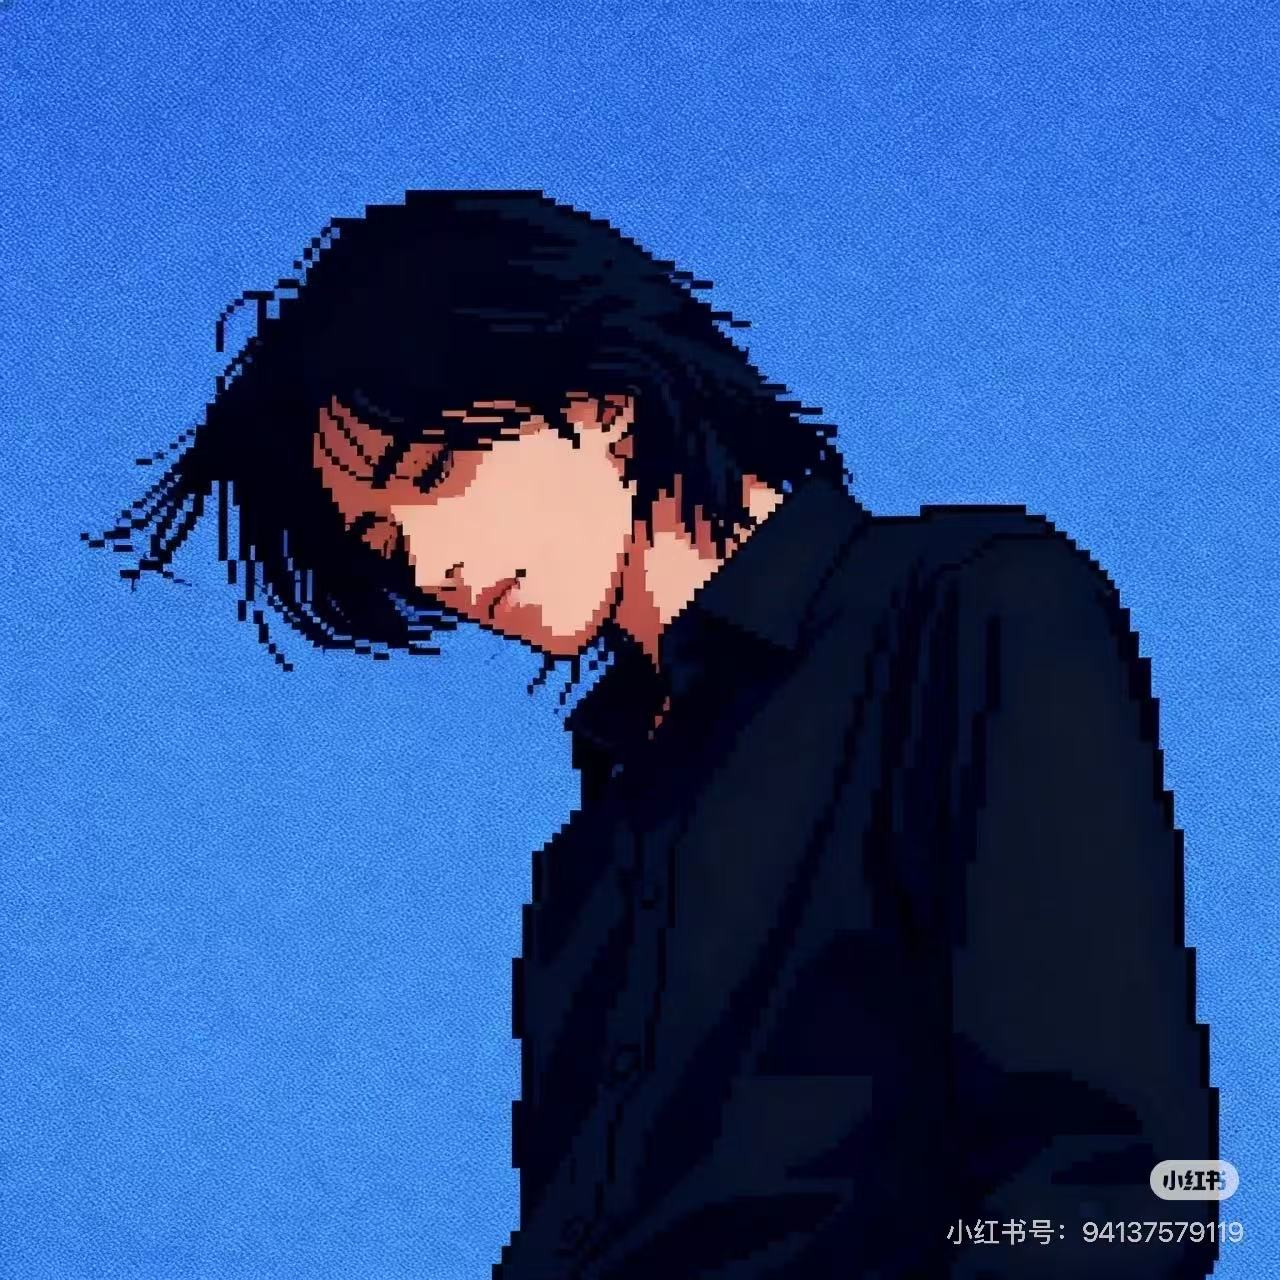
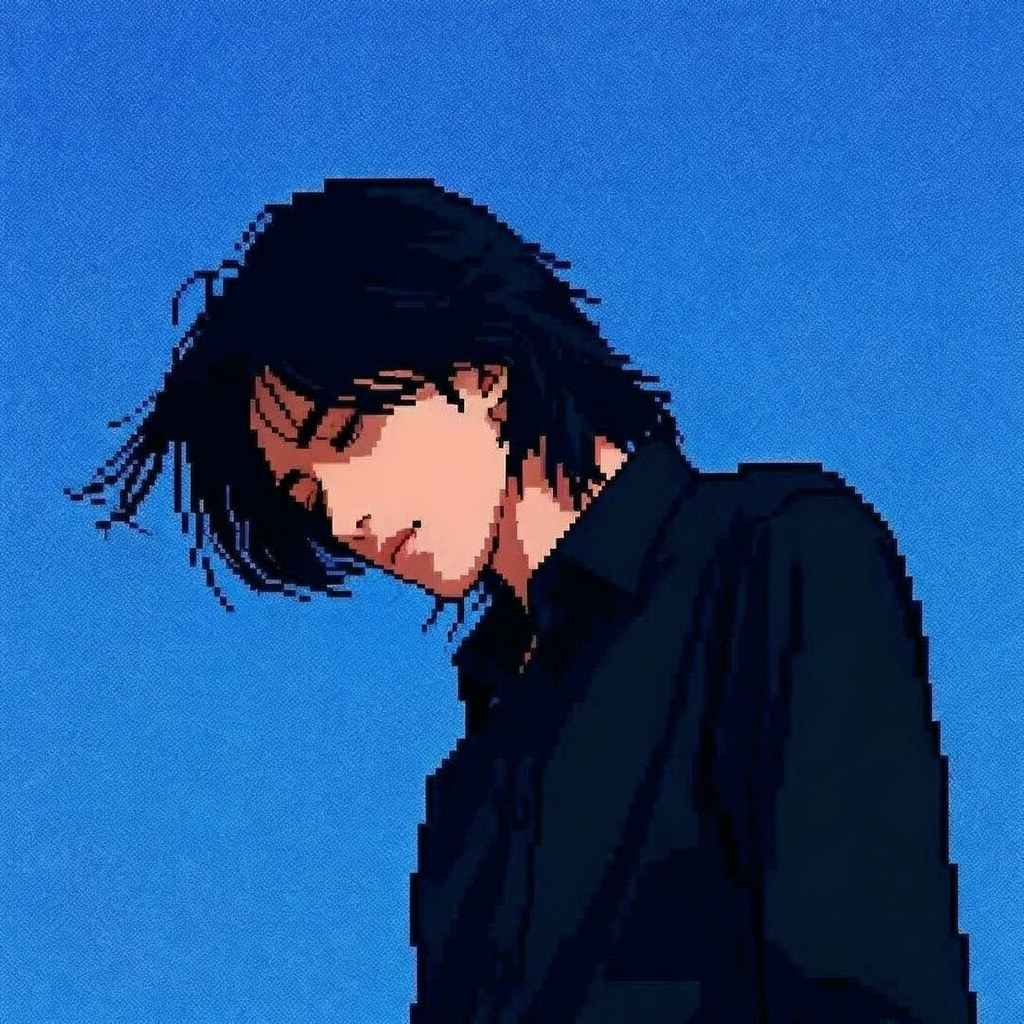
Update experience page and optimize profile image

diff --git a/src/pages/Experience.tsx b/src/pages/Experience.tsx
@@ -3,59 +3,116 @@ import { Briefcase, Calendar, GraduationCap } from 'lucide-react';
 interface ExperienceItem {
   title: string;
   organization: string;
-  location?: string;
   startDate: string;
   endDate: string;
-  expected?: boolean;
+  supervisor?: string;
+  status?: string;
   description?: string;
 }
 
-const experiences: ExperienceItem[] = [
+const internships: ExperienceItem[] = [
   {
-    title: 'Research Assistant',
-    organization: 'Duke University',
-    startDate: '2026-01',
-    endDate: 'Present',
-    description: 'Participating in research on ways to assess the quality of ECG and PCG signals based on a novel wearable device.'
-  },
+    title: 'Algorithm Engineer Intern',
+    organization: 'Wenxin Tech',
+    startDate: '03/2024',
+    endDate: '06/2026',
+    description: 'Developed an ECG and PCG CNN-LSTM algorithm for heart disease detection and a lung sound classification algorithm based on wearable devices. Contributed to a cardiovascular medical language model using multimodal physiological signals for risk assessment and clinical decision support.'
+  }
+];
+
+const research: ExperienceItem[] = [
   {
-    title: 'Research Assistant',
-    organization: 'Shanxi Medical University',
-    startDate: '2025-09',
-    endDate: 'Present',
-    description: 'Working on statistical methods to prove the effectiveness of a novel wearable device for pneumonia screening.'
-  },
-  {
-    title: 'Research Assistant',
+    title: 'RespMIL: Multiple Instance Learning for Respiratory Sound Classification',
     organization: 'Nanjing University',
-    startDate: '2025-03',
-    endDate: '2025-08',
-    description: 'Worked on transfer learning and few-shot learning in agricultural drone scenarios.'
+    supervisor: 'Prof. Yechao Bai',
+    startDate: '02/2026',
+    endDate: '05/2026',
+    description: 'Developed a DASS-based multiple instance learning pipeline for respiratory sound classification on the ICBHI dataset. Achieved an ICBHI score of 64.77.'
   },
   {
-    title: 'Research Intern',
-    organization: 'Bayland Scientific',
-    startDate: '2024-01',
+    title: 'A Deep Learning Framework for Auxiliary Pneumonia Screening Using Lung Sounds from Wearable Device',
+    organization: 'Fudan University',
+    supervisor: 'Prof. Lei Liu',
+    startDate: '06/2026',
     endDate: 'Present',
-    description: 'Working on a novel algorithm to detect and analyse the severity of pneumonia based on respiratory sound.'
+    description: 'Developed an AI-assisted lung sound screening framework for bedside pneumonia assessment. On a private dataset of 367 recordings, the CNN-BiGRU model achieved a recording-level AUC of 0.923.'
   }
 ];
 
 const education: ExperienceItem[] = [
   {
-    title: 'BS Mathematics',
-    organization: 'University of Auckland',
-    startDate: '2026-07',
-    endDate: '2027-06',
-    expected: true
+    title: 'Bachelor of Science',
+    organization: 'Northeastern University',
+    startDate: '09/2023',
+    endDate: '06/2026',
+    description: 'Major in Mathematics and Applied Mathematics'
   },
   {
-    title: 'BS Mathematics and Applied Mathematics',
-    organization: 'Northeastern University',
-    startDate: '2023-09',
-    endDate: 'Present'
+    title: 'Bachelor of Science',
+    organization: 'University of Auckland',
+    startDate: '07/2026',
+    endDate: 'Present',
+    description: 'Major in Mathematics'
   }
 ];
+
+const Timeline = ({ items, education = false }: { items: ExperienceItem[]; education?: boolean }) => (
+  <div className="relative">
+    <div className="absolute left-6 top-0 bottom-0 w-0.5 bg-sky-200 dark:bg-sky-800" />
+
+    <div className="space-y-8">
+      {items.map((item, index) => (
+        <div key={index} className="relative flex gap-6">
+          <div className="relative z-10 flex-shrink-0">
+            <div className="w-12 h-12 rounded-full bg-sky-100 dark:bg-sky-900 border-2 border-sky-400 dark:border-sky-500 flex items-center justify-center">
+              {education ? (
+                <GraduationCap className="w-5 h-5 text-sky-600 dark:text-sky-400" />
+              ) : (
+                <Briefcase className="w-5 h-5 text-sky-600 dark:text-sky-400" />
+              )}
+            </div>
+          </div>
+
+          <div className="flex-1 bg-white dark:bg-slate-800 rounded-xl border border-sky-100 dark:border-slate-700 shadow-sm hover:shadow-md transition-shadow p-6">
+            <div className="flex flex-col sm:flex-row sm:items-start sm:justify-between gap-2 mb-3">
+              <div>
+                <h3 className="text-xl font-bold text-slate-800 dark:text-slate-100">
+                  {item.title}
+                </h3>
+                <p className="text-sky-600 dark:text-sky-400 font-medium">
+                  {item.organization}
+                </p>
+                {item.supervisor && (
+                  <p className="text-sm text-slate-500 dark:text-slate-400 mt-1">
+                    Supervisor: {item.supervisor}
+                  </p>
+                )}
+                {item.status && (
+                  <p className="text-sm text-slate-500 dark:text-slate-400 italic mt-1">
+                    {item.status}
+                  </p>
+                )}
+              </div>
+              <div className="flex items-center gap-1.5 text-slate-500 dark:text-slate-400 text-sm whitespace-nowrap">
+                <Calendar className="w-4 h-4" />
+                <span>{item.startDate} – </span>
+                <span className={item.endDate === 'Present' ? 'text-sky-600 dark:text-sky-400 font-medium' : ''}>
+                  {item.endDate}
+                </span>
+              </div>
+            </div>
+
+            {item.description && (
+              <p className="text-slate-600 dark:text-slate-300 leading-relaxed">
+                {item.description}
+              </p>
+            )}
+          </div>
+        </div>
+      ))}
+    </div>
+  </div>
+);
 
 const Experience = () => {
   return (
@@ -67,101 +124,32 @@ const Experience = () => {
             Experience
           </h1>
           <p className="text-slate-500 dark:text-slate-400 text-lg">
-            My research journey and professional experience
+            My internship and research experience
           </p>
         </div>
 
-        {/* Experience Timeline */}
-        <div className="relative mb-16">
-          <div className="absolute left-6 top-0 bottom-0 w-0.5 bg-sky-200 dark:bg-sky-800" />
+        {/* Internship Section */}
+        <section className="mb-16">
+          <h2 className="text-4xl font-bold text-slate-800 dark:text-slate-100 mb-8 text-center">
+            Internship
+          </h2>
+          <Timeline items={internships} />
+        </section>
 
-          <div className="space-y-8">
-            {experiences.map((exp, index) => (
-              <div key={index} className="relative flex gap-6">
-                <div className="relative z-10 flex-shrink-0">
-                  <div className="w-12 h-12 rounded-full bg-sky-100 dark:bg-sky-900 border-2 border-sky-400 dark:border-sky-500 flex items-center justify-center">
-                    <Briefcase className="w-5 h-5 text-sky-600 dark:text-sky-400" />
-                  </div>
-                </div>
-
-                <div className="flex-1 bg-white dark:bg-slate-800 rounded-xl border border-sky-100 dark:border-slate-700 shadow-sm hover:shadow-md transition-shadow p-6">
-                  <div className="flex flex-col sm:flex-row sm:items-start sm:justify-between gap-2 mb-3">
-                    <div>
-                      <h3 className="text-xl font-bold text-slate-800 dark:text-slate-100">
-                        {exp.title}
-                      </h3>
-                      <p className="text-sky-600 dark:text-sky-400 font-medium">
-                        {exp.organization}
-                      </p>
-                    </div>
-                    <div className="flex items-center gap-1.5 text-slate-500 dark:text-slate-400 text-sm whitespace-nowrap">
-                      <Calendar className="w-4 h-4" />
-                      <span>{exp.startDate} – </span>
-                      <span className={exp.endDate === 'Present' ? 'text-sky-600 dark:text-sky-400 font-medium' : ''}>
-                        {exp.endDate}
-                      </span>
-                    </div>
-                  </div>
-
-                  {exp.description && (
-                    <p className="text-slate-600 dark:text-slate-300 leading-relaxed">
-                      {exp.description}
-                    </p>
-                  )}
-                </div>
-              </div>
-            ))}
-          </div>
-        </div>
+        {/* Research Section */}
+        <section className="mb-16">
+          <h2 className="text-4xl font-bold text-slate-800 dark:text-slate-100 mb-8 text-center">
+            Research
+          </h2>
+          <Timeline items={research} />
+        </section>
 
         {/* Education Section */}
         <section>
           <h2 className="text-4xl font-bold text-slate-800 dark:text-slate-100 mb-8 text-center">
             Education
           </h2>
-
-          <div className="relative">
-            <div className="absolute left-6 top-0 bottom-0 w-0.5 bg-sky-200 dark:bg-sky-800" />
-
-            <div className="space-y-8">
-              {education.map((edu, index) => (
-                <div key={index} className="relative flex gap-6">
-                  <div className="relative z-10 flex-shrink-0">
-                    <div className="w-12 h-12 rounded-full bg-sky-100 dark:bg-sky-900 border-2 border-sky-400 dark:border-sky-500 flex items-center justify-center">
-                      <GraduationCap className="w-5 h-5 text-sky-600 dark:text-sky-400" />
-                    </div>
-                  </div>
-
-                  <div className="flex-1 bg-white dark:bg-slate-800 rounded-xl border border-sky-100 dark:border-slate-700 shadow-sm hover:shadow-md transition-shadow p-6">
-                    <div className="flex flex-col sm:flex-row sm:items-start sm:justify-between gap-2">
-                      <div>
-                        <h3 className="text-xl font-bold text-slate-800 dark:text-slate-100">
-                          {edu.title}
-                        </h3>
-                        <p className="text-sky-600 dark:text-sky-400 font-medium">
-                          {edu.organization}
-                        </p>
-                      </div>
-                      <div className="flex flex-col items-start sm:items-end gap-0.5 text-slate-500 dark:text-slate-400 text-sm">
-                        <div className="flex items-center gap-1.5 whitespace-nowrap">
-                          <Calendar className="w-4 h-4" />
-                          <span>{edu.startDate} – </span>
-                          <span className={edu.endDate === 'Present' ? 'text-sky-600 dark:text-sky-400 font-medium' : ''}>
-                            {edu.endDate}
-                          </span>
-                        </div>
-                        {edu.expected && (
-                          <span className="text-sky-600 dark:text-sky-400 font-medium text-xs">
-                            (Expected)
-                          </span>
-                        )}
-                      </div>
-                    </div>
-                  </div>
-                </div>
-              ))}
-            </div>
-          </div>
+          <Timeline items={education} education />
         </section>
       </div>
     </div>

diff --git a/src/pages/Bio.tsx b/src/pages/Bio.tsx
@@ -11,7 +11,10 @@ const Bio = () => {
         <div className="flex flex-col md:flex-row gap-8 md:gap-12 items-start mb-16">
           <div className="flex-shrink-0">
             <Avatar className="w-40 h-40 md:w-48 md:h-48 border-4 border-primary/10">
-              <AvatarImage src="/avatar.jpg" alt="Profile" />
+              <picture>
+                <source srcSet="/avatar.webp" type="image/webp" />
+                <AvatarImage src="/avatar.jpg" alt="Dexuan Li" />
+              </picture>
               <AvatarFallback className="text-4xl bg-primary/10 text-primary">
                 DR
               </AvatarFallback>
